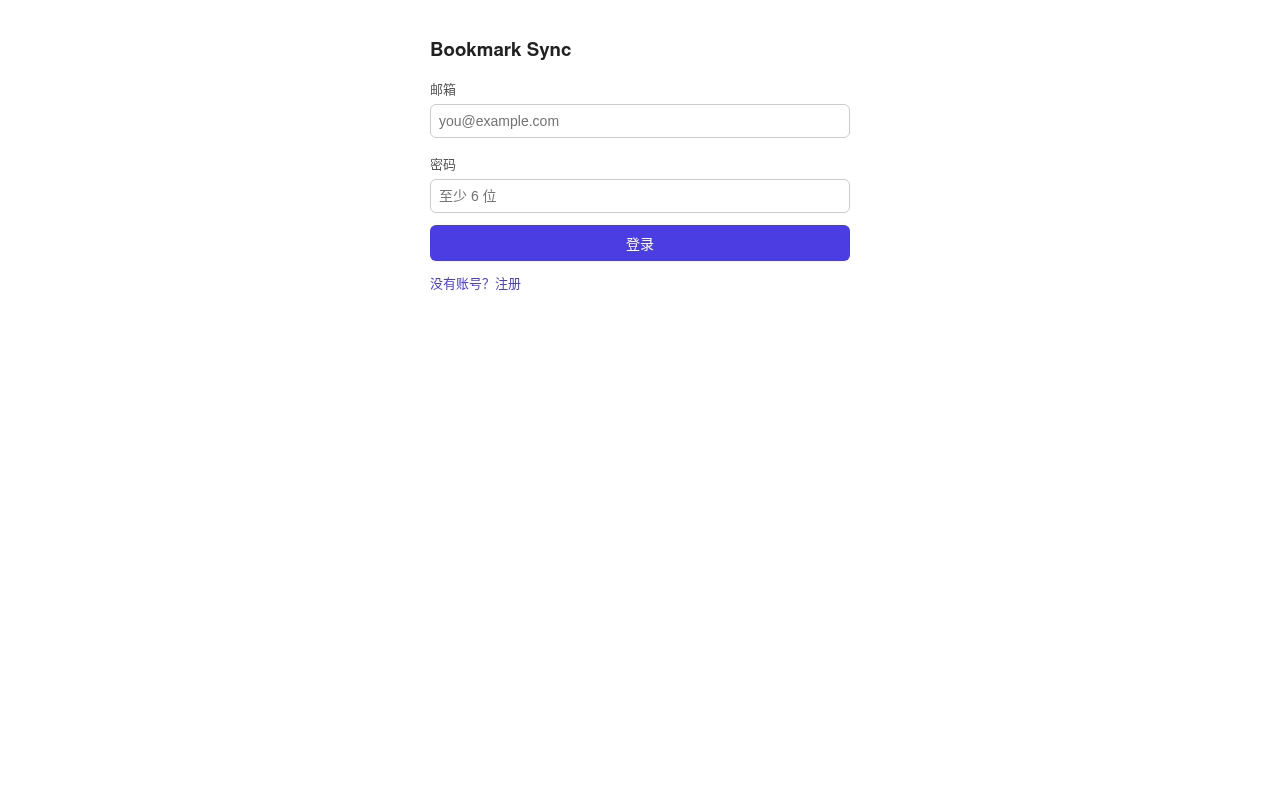
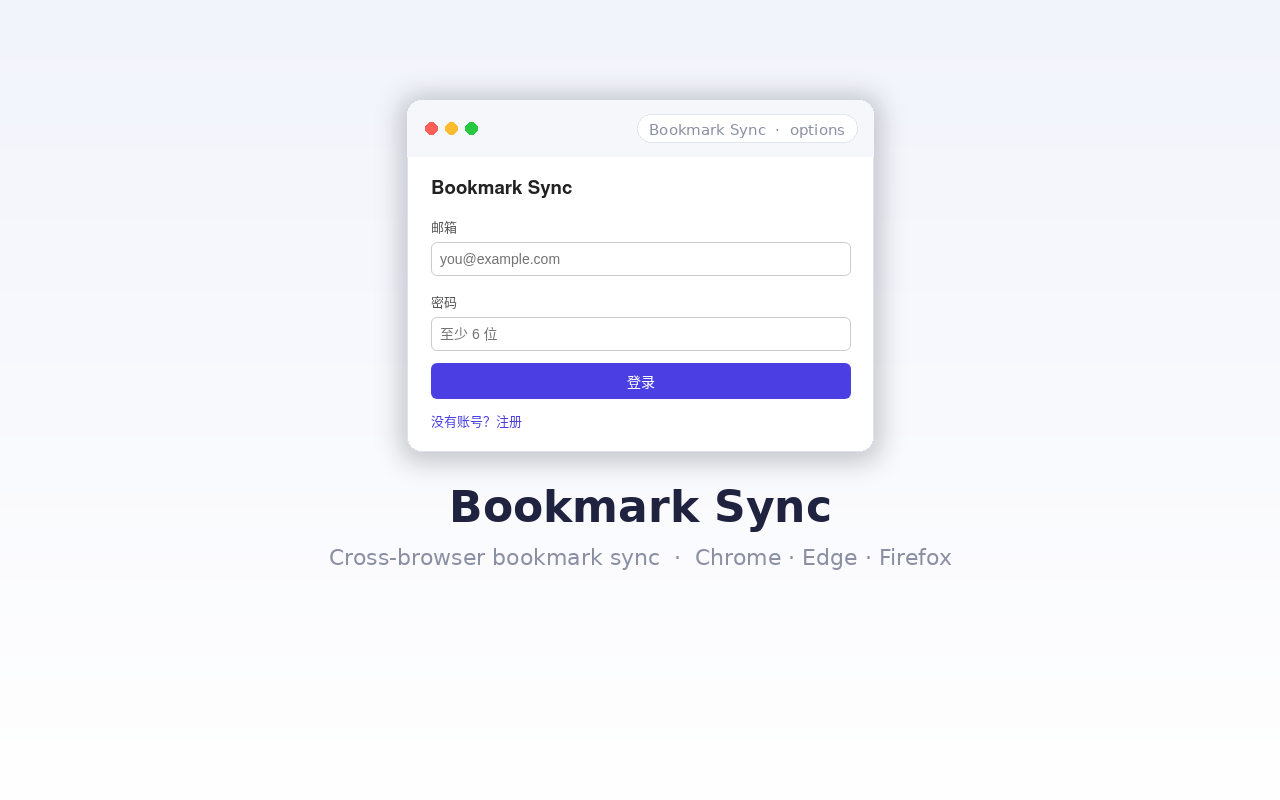
feat: 多浏览器书签同步插件方案

Changed region(s): [[0.2812, 0.0312, 0.7188, 0.6562], [0.25, 0.6875, 0.5, 0.7188], [0.5312, 0.6875, 0.75, 0.7188]]

diff --git a/.workbuddy/memory/2026-09-10.md b/.workbuddy/memory/2026-09-10.md
@@ -95,3 +95,16 @@
   - 新增 `scripts/build-firefox.mjs`：`extension/` → `extension-firefox/` + 替换 Firefox manifest；`package.json` 加 `build:firefox`。
   - `public/manifest.json` 描述更新为 Chrome/Edge/Firefox；README 补 Edge/Firefox 安装说明；`.gitignore` 加 `extension-firefox/`。
 - 已验证：`pnpm build` / `pnpm build:firefox` 均 EXIT=0；产物 bundle 含 `globalThis.browser ?? globalThis.chrome`；无残留字面 `chrome.tabs.create`；两 manifest 正确区分 service_worker vs scripts。未 commit（用户未授权）。
+
+## ★ 三商店商家要求调研结论 + 合规改造（agent 执行，已构建验证）
+- 调研结论（2026-09-10，各商店官方文档）：
+  - **Chrome Web Store**：开发者注册费 $5 一次性（硬性）；需 Google 账号开两步验证；隐私权规范必填（勾选收集的数据类型：邮箱=身份信息、书签=书签活动，逐项填用途）；列表页必填 128×128 图标 + ≥1 张截图（1280×800 或 640×400，最多 5 张）；最小权限审查严格（仅申请功能必需的 permission）。
+  - **Edge Add-ons（Partner Center）**：注册免费；提交 zip 包；认证测试需提供测试说明（如登录账号）；收集个人信息时隐私政策 URL 必填 + 逐项申报数据用途；视觉素材 logo 1:1（建议 300×300、最小 128×128）+ 截图 1280×800 / 640×400（最多 10 张）+ 可选 440×280 促销磁贴。
+  - **Firefox AMO**：注册免费；**2025-11-03 起 `data_collection_permissions` 校验必填**（AMO 官方 blog），须在 gecko 段声明收集的数据类型，安装时 Firefox 展示内建数据收集同意弹窗；产物为压缩 bundle → 必须提交**源码包**（zip 打 src/ + package.json）；`gecko.id` 一经提交不可更改；列表页详细描述须写明**传输哪些数据** + 付费方式（本项目 Pro/Lifetime 为可选的 Creem 买断）。
+- 合规改动：
+  - `public/icons/` 生成完整图标集 16/32/48/128/256/512（ffmpeg 缩放），双 manifest `icons` + `action.default_icon` 引用。
+  - `public/manifest.firefox.json` 补 `browser_specific_settings.gecko.data_collection_permissions.required = ["authenticationInfo","bookmarksInfo","personallyIdentifyingInfo"]`（对应邮箱登录/书签同步/邮箱 PII）。
+  - `store-assets/`：`edge-logo-300x300.png`（Edge logo 1:1 300×300）、`screenshot-1280x800-options.png`（登录态）、`screenshot-1280x800-dashboard.png`（已登录 Premium 界面，0.21MB/20MB 真实数据）。
+  - README 新增「商店发布检查清单」三节：账号/费用/隐私/权限/截图/源码提交/测试说明全流程。
+- 验证：`pnpm build`（extension/）与 `pnpm build:firefox`（extension-firefox/）均 EXIT=0，双产物 icons 齐全，Firefox manifest 含 data_collection_permissions；截图用真实选项页 UI（dev server + browser 登录真实账号 346746061@qq.com 截取）。
+- 待用户操作：CWS 注册（$5+两步验证）、隐私政策 URL 已就绪（https://bookmarksync.app/privacy）、AMO 提交需打源码 zip。未 commit（用户未授权）。

diff --git a/README.md b/README.md
@@ -55,7 +55,7 @@ pnpm build:firefox    # Firefox 产物 -> extension-firefox/
 
 - 开发者注册费 $5 一次性 + Google 账号开启两步验证（硬性）
 - 提交 `extension/` 打包的 zip（manifest 位于根目录）
-- 列表页必填：图标 128×128、截图 ≥1 张（1280×800 或 640×400，最多 5 张）、类别、语言
+- 列表页必填：图标 128×128、截图 ≥1 张（1280×800 或 640×400，最多 5 张，已生成 `store-assets/screenshot-1280x800-options.png` / `screenshot-1280x800-dashboard.png`）、类别、语言
 - 隐私权规范必填：勾选收集的数据（邮箱、书签），逐项填写 `bookmarks` / `storage` / `*.supabase.co` 的用途，与隐私政策一致
 - 审核约数天～数周，更新走同样流程
 
@@ -70,7 +70,7 @@ pnpm build:firefox    # Firefox 产物 -> extension-firefox/
 
 - 提交 `extension/` 的 zip；认证测试需提供测试说明（如登录账号）
 - 隐私政策 URL 必填（收集个人信息时），并逐项申报数据用途
-- 视觉素材：logo（1:1，建议 300×300、最小 128×128，已生成 `store-assets/edge-logo-300x300.png`）、可选 440×280 促销磁贴、截图 1280×800 / 640×400（最多 10 张）
+- 视觉素材：logo（1:1，建议 300×300、最小 128×128，已生成 `store-assets/edge-logo-300x300.png`）、可选 440×280 促销磁贴、截图 1280×800 / 640×400（最多 10 张，已生成 `store-assets/screenshot-1280x800-options.png` / `screenshot-1280x800-dashboard.png`）
 
 ## 说明
 
